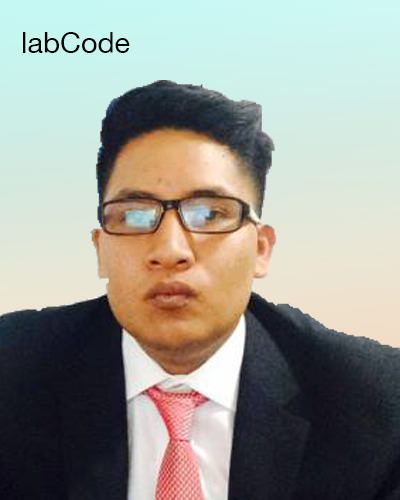
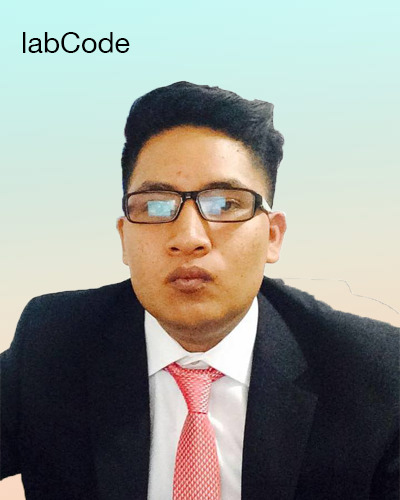
Se cambia foto de Alberto y se actualiza fondo done

Changed region(s): [[0.0, 0.15, 1.0, 1.0], [0.0, 0.93, 0.09, 1.0], [0.96, 0.84, 1.0, 0.93]]

diff --git a/js/particulas.js b/js/particulas.js
@@ -1,10 +1,10 @@
 particlesJS({
   particles: {
     number: {
-      value: 6,
+      value: 30,
       density: {
         enable: true,
-        value_area: 800,
+        value_area: 1657.2100474277727,
       },
     },
     color: {
@@ -14,10 +14,10 @@ particlesJS({
       type: 'circle',
       stroke: {
         width: 0,
-        color: '#000000',
+        color: '#57aca4',
       },
       polygon: {
-        nb_sides: 3,
+        nb_sides: 6,
       },
       image: {
         src: 'img/github.svg',
@@ -26,23 +26,23 @@ particlesJS({
       },
     },
     opacity: {
-      value: 0.3,
-      random: true,
-      anim: {
-        enable: false,
-        speed: 1,
-        opacity_min: 0.1,
-        sync: true,
-      },
-    },
-    size: {
-      value: 177.55821936726136,
+      value: 0.8017060304327615,
       random: true,
       anim: {
         enable: true,
-        speed: 35.964035964035965,
-        size_min: 55.14485514485514,
-        sync: true,
+        speed: 1,
+        opacity_min: 0.1,
+        sync: false,
+      },
+    },
+    size: {
+      value: 196.41797745602653,
+      random: true,
+      anim: {
+        enable: true,
+        speed: 10,
+        size_min: 40,
+        sync: false,
       },
     },
     line_linked: {
@@ -56,7 +56,7 @@ particlesJS({
       enable: true,
       speed: 8,
       direction: 'none',
-      random: false,
+      random: true,
       straight: false,
       out_mode: 'out',
       bounce: false,
@@ -82,20 +82,20 @@ particlesJS({
     },
     modes: {
       grab: {
-        distance: 191.80819180819182,
+        distance: 400,
         line_linked: {
           opacity: 1,
         },
       },
       bubble: {
         distance: 400,
-        size: 359.64035964035963,
-        duration: 2.317682317682318,
-        opacity: 0.8311688311688312,
+        size: 40,
+        duration: 2,
+        opacity: 8,
         speed: 3,
       },
       repulse: {
-        distance: 263.73626373626377,
+        distance: 200,
         duration: 0.4,
       },
       push: {

diff --git a/css/main.css b/css/main.css
@@ -1,5 +1,5 @@
 #particles-js {
-  background: #da9fde;
+  background: #f9d9c3;
   height: 100vh;
   width: 100vw;
   position: fixed;
